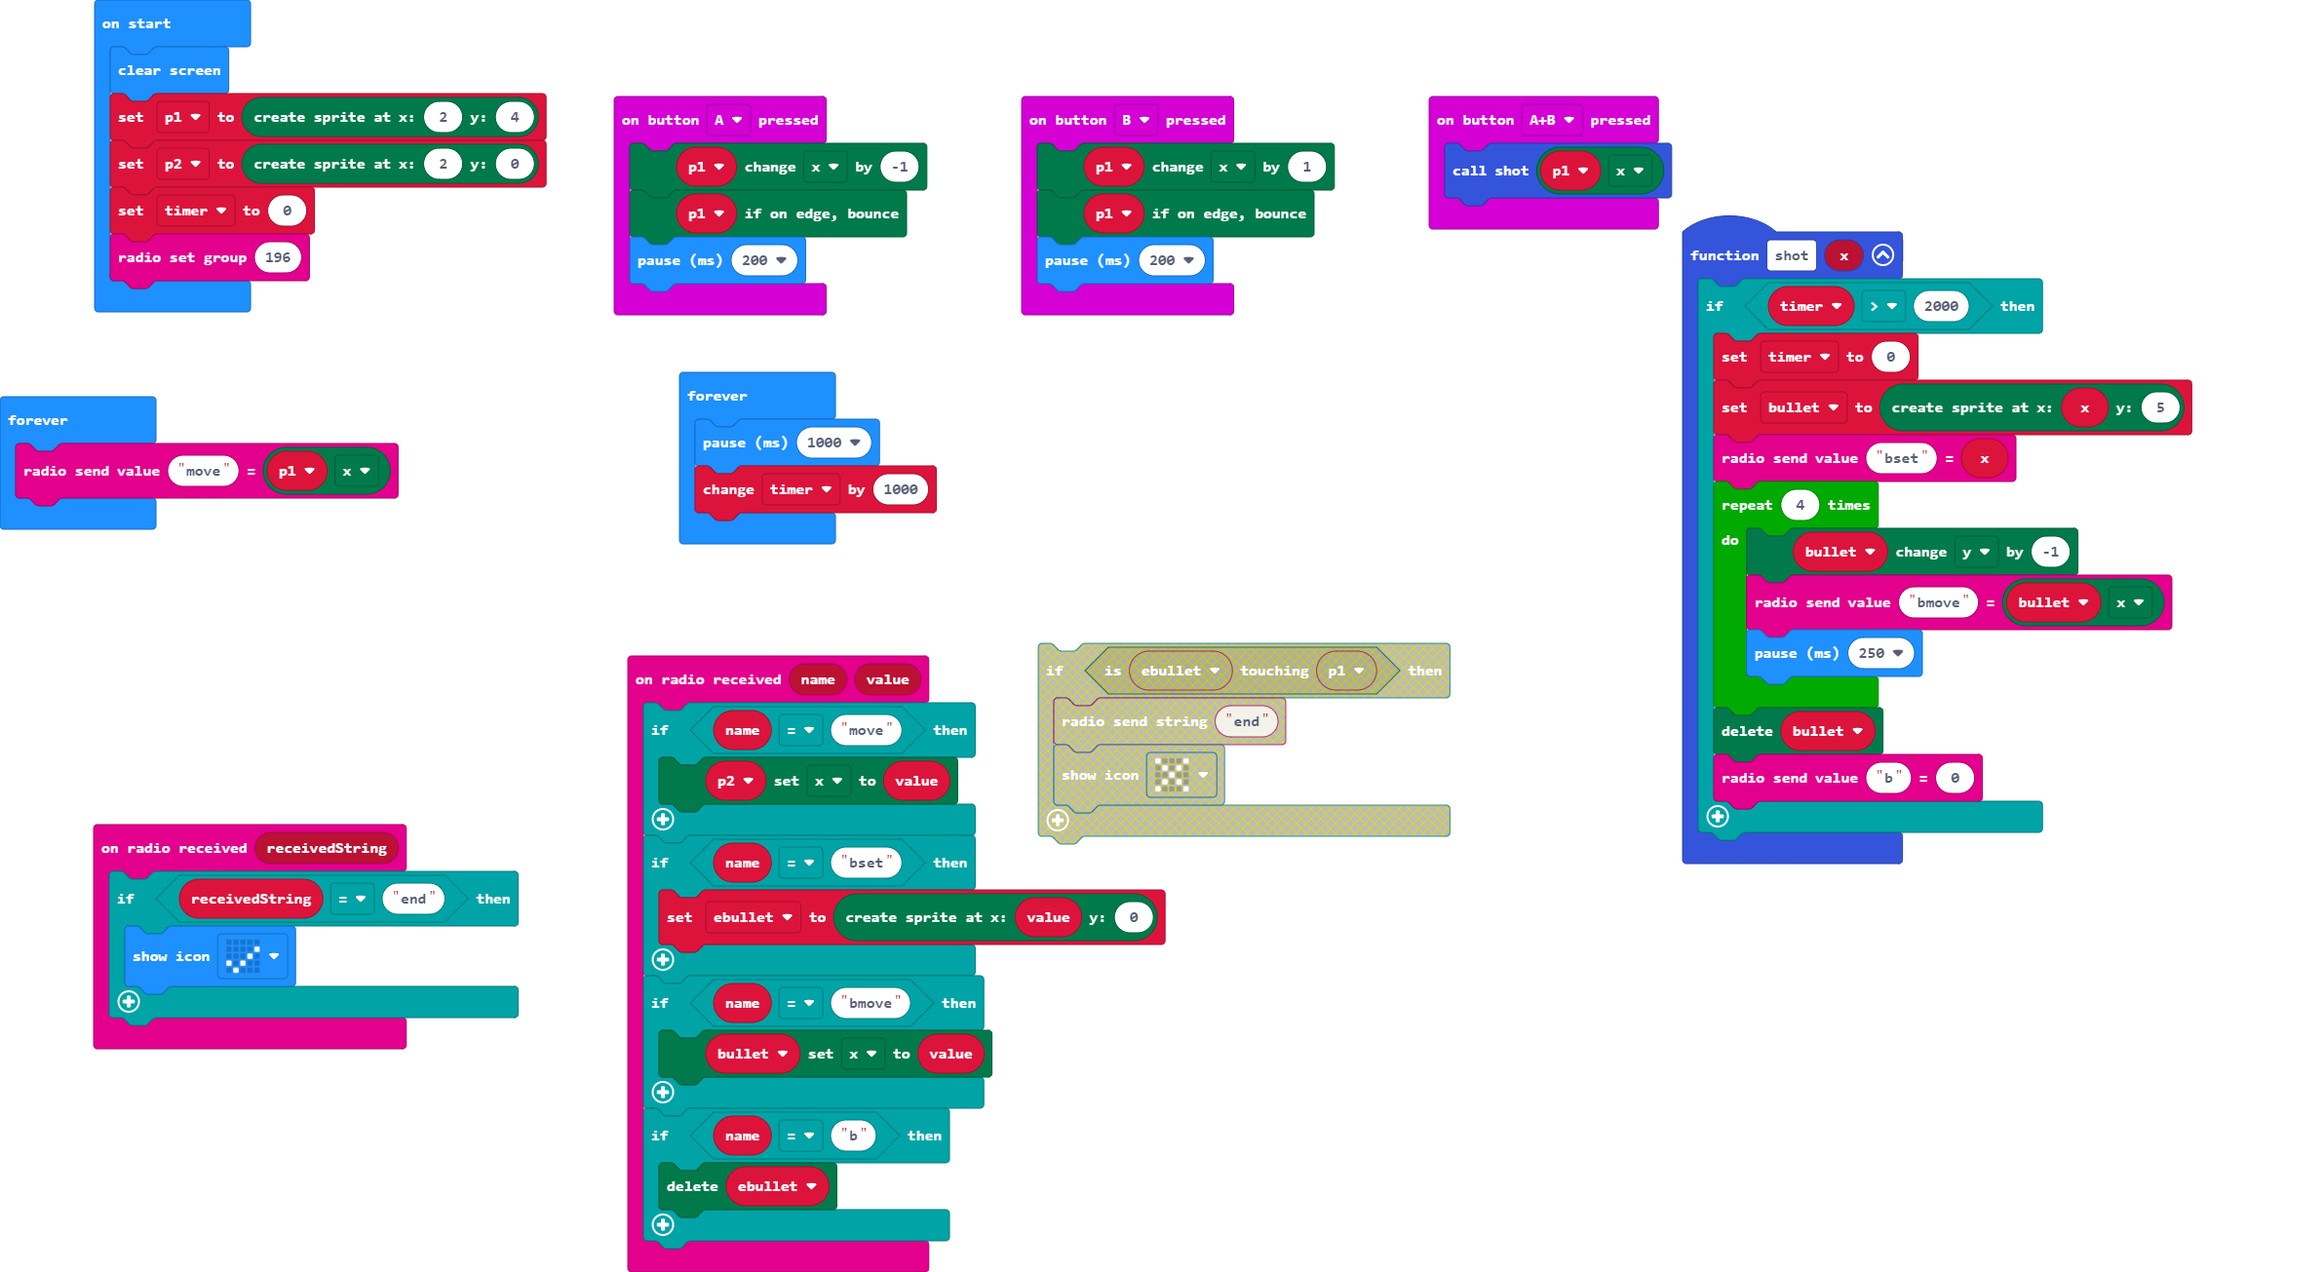
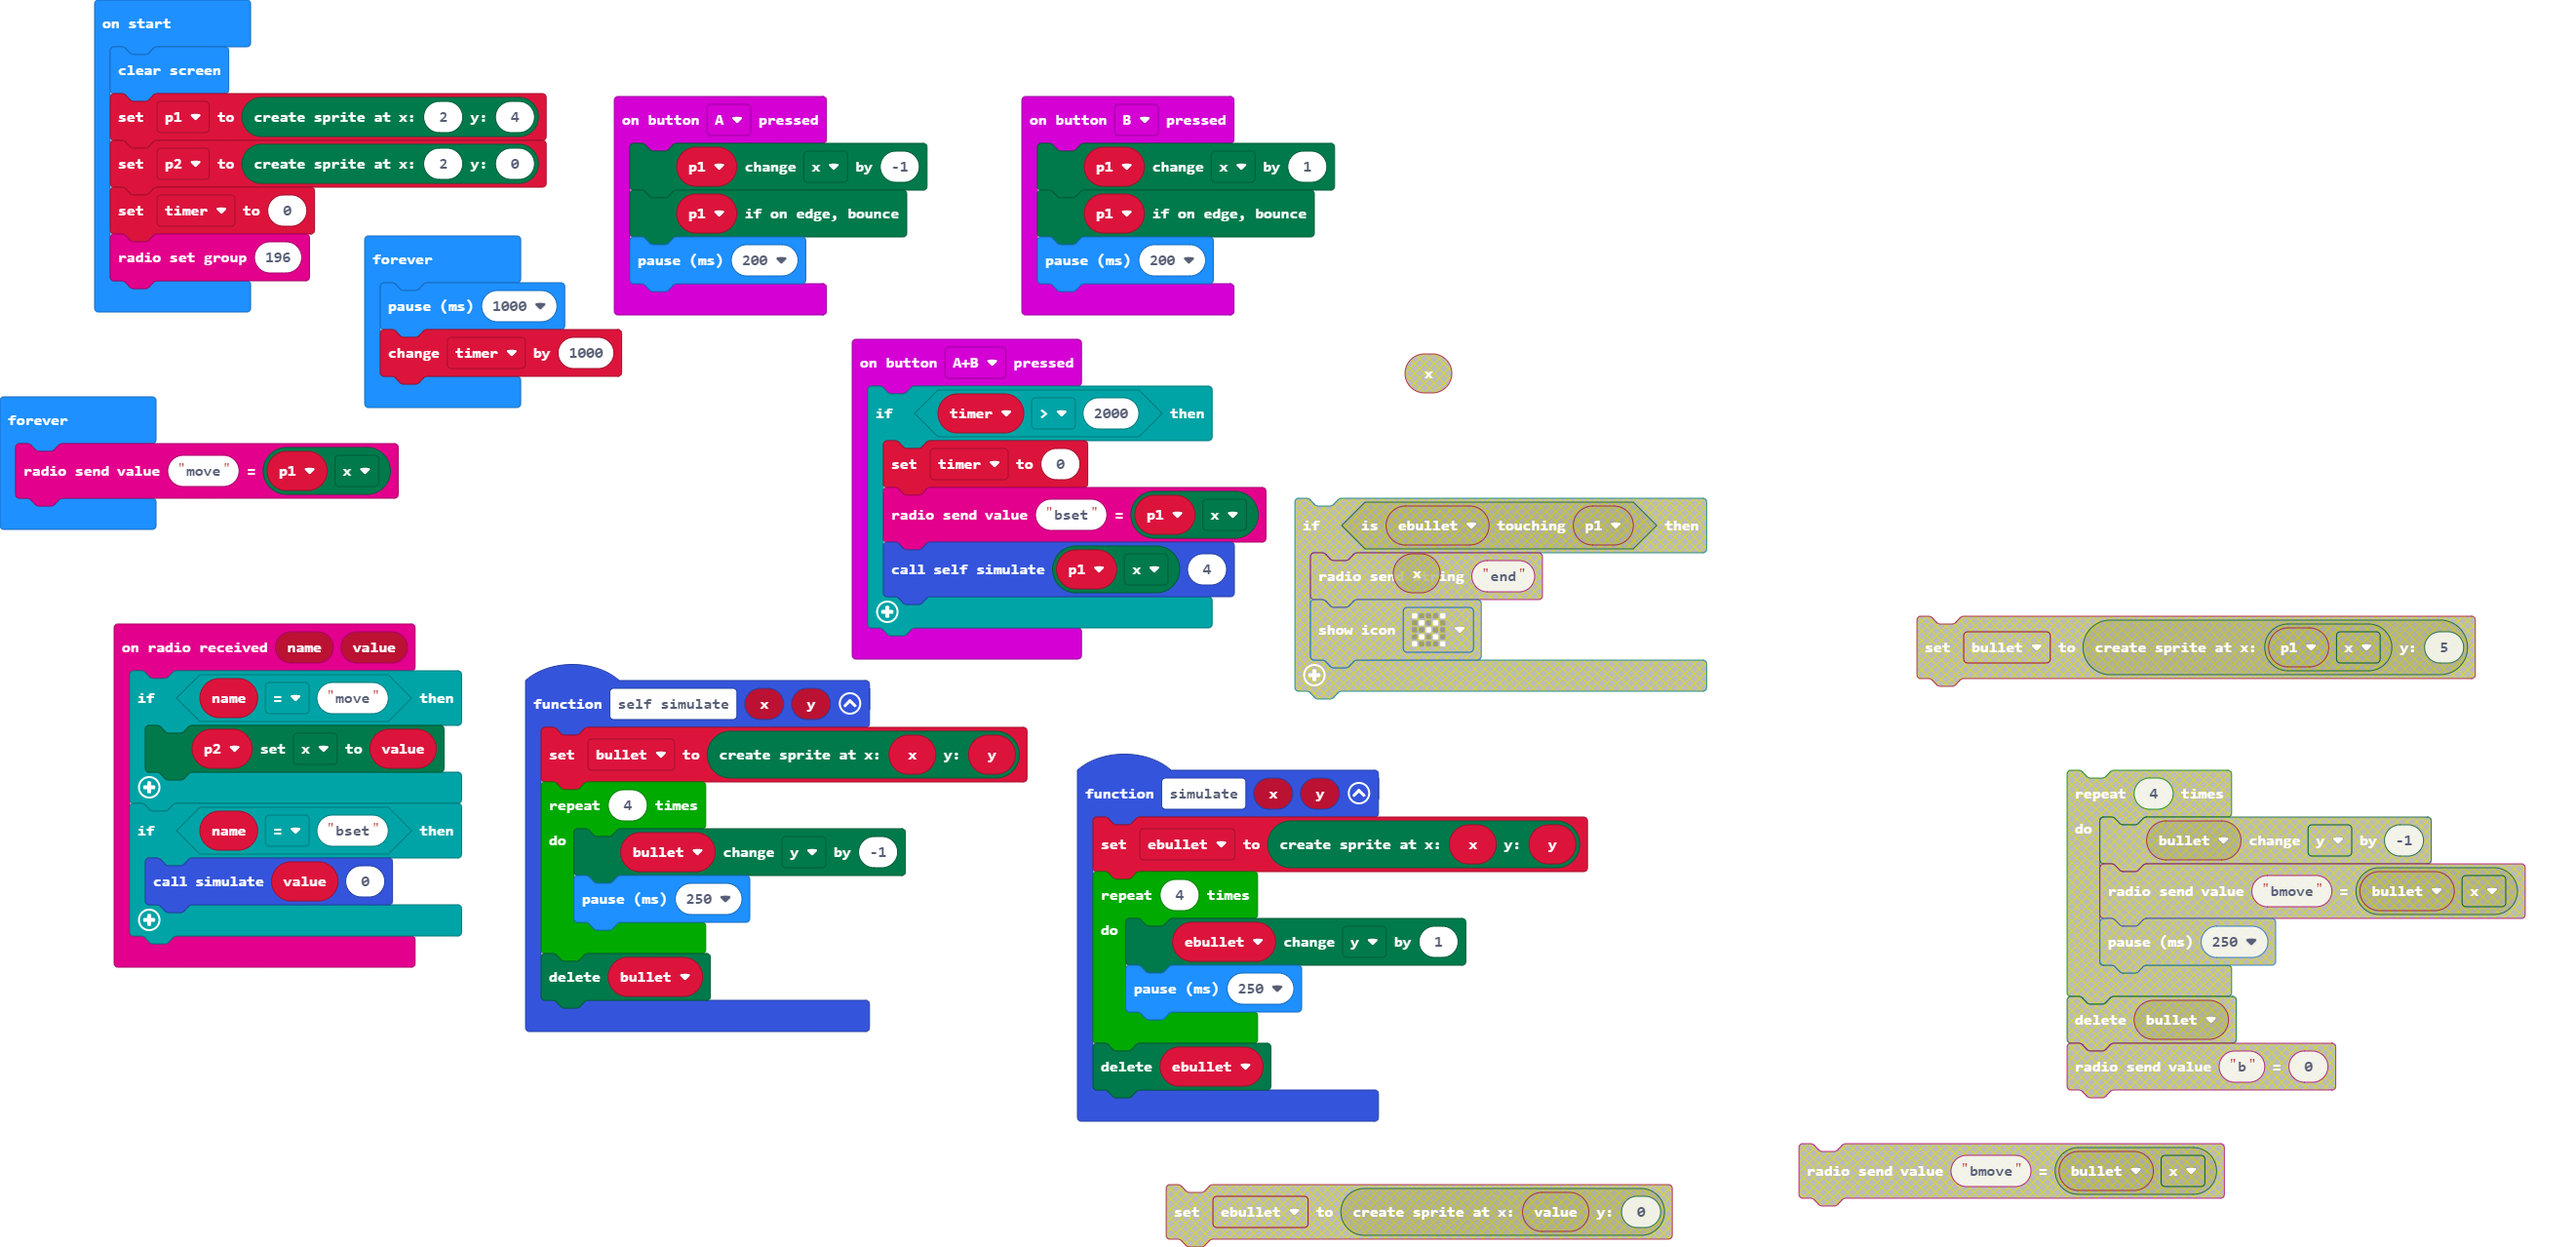
fixed shot display

diff --git a/main.ts b/main.ts
@@ -1,28 +1,29 @@
-function shot (x: number) {
-    if (timer > 2000) {
-        timer = 0
-        bullet = game.createSprite(x, 5)
-        radio.sendValue("bset", x)
-        for (let index = 0; index < 4; index++) {
-            bullet.change(LedSpriteProperty.Y, -1)
-            radio.sendValue("bmove", bullet.get(LedSpriteProperty.X))
-            basic.pause(250)
-        }
-        bullet.delete()
-        radio.sendValue("b", 0)
+function simulate (x: number, y: number) {
+    ebullet = game.createSprite(x, y)
+    for (let index = 0; index < 4; index++) {
+        ebullet.change(LedSpriteProperty.Y, 1)
+        basic.pause(250)
     }
+    ebullet.delete()
 }
 input.onButtonPressed(Button.A, function () {
     p1.change(LedSpriteProperty.X, -1)
     p1.ifOnEdgeBounce()
     basic.pause(200)
 })
+function self_simulate (x: number, y: number) {
+    bullet = game.createSprite(x, y)
+    for (let index = 0; index < 4; index++) {
+        bullet.change(LedSpriteProperty.Y, -1)
+        basic.pause(250)
+    }
+    bullet.delete()
+}
 input.onButtonPressed(Button.AB, function () {
-    shot(p1.get(LedSpriteProperty.X))
-})
-radio.onReceivedString(function (receivedString) {
-    if (receivedString == "end") {
-        basic.showIcon(IconNames.Yes)
+    if (timer > 2000) {
+        timer = 0
+        radio.sendValue("bset", p1.get(LedSpriteProperty.X))
+        self_simulate(p1.get(LedSpriteProperty.X), 4)
     }
 })
 input.onButtonPressed(Button.B, function () {
@@ -35,17 +36,11 @@ radio.onReceivedValue(function (name, value) {
         p2.set(LedSpriteProperty.X, value)
     }
     if (name == "bset") {
-        ebullet = game.createSprite(value, 0)
-    }
-    if (name == "bmove") {
-        bullet.set(LedSpriteProperty.X, value)
-    }
-    if (name == "b") {
-        ebullet.delete()
+        simulate(value, 0)
     }
 })
-let ebullet: game.LedSprite = null
 let bullet: game.LedSprite = null
+let ebullet: game.LedSprite = null
 let timer = 0
 let p2: game.LedSprite = null
 let p1: game.LedSprite = null
@@ -55,9 +50,9 @@ p2 = game.createSprite(2, 0)
 timer = 0
 radio.setGroup(196)
 basic.forever(function () {
-    radio.sendValue("move", p1.get(LedSpriteProperty.X))
-})
-basic.forever(function () {
     basic.pause(1000)
     timer += 1000
+})
+basic.forever(function () {
+    radio.sendValue("move", p1.get(LedSpriteProperty.X))
 })
